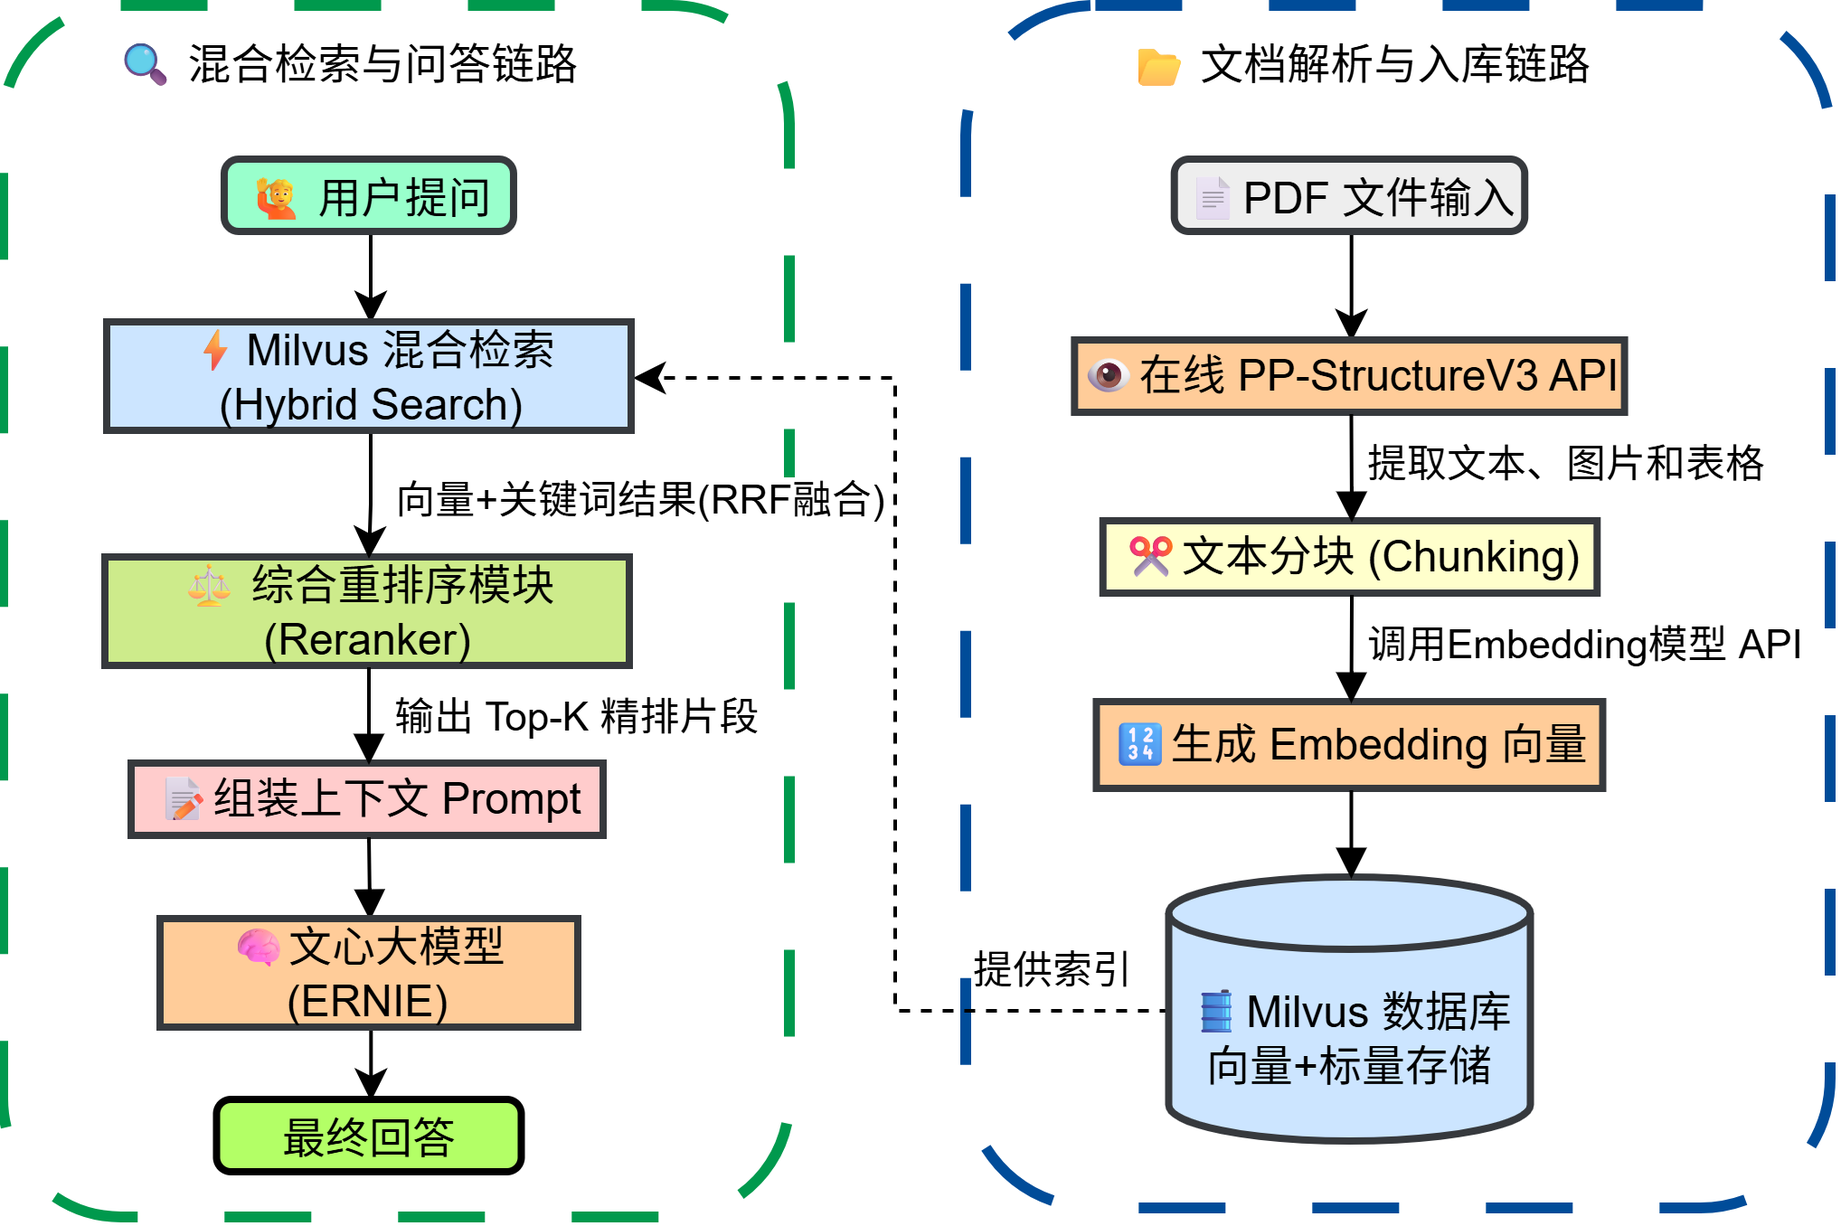
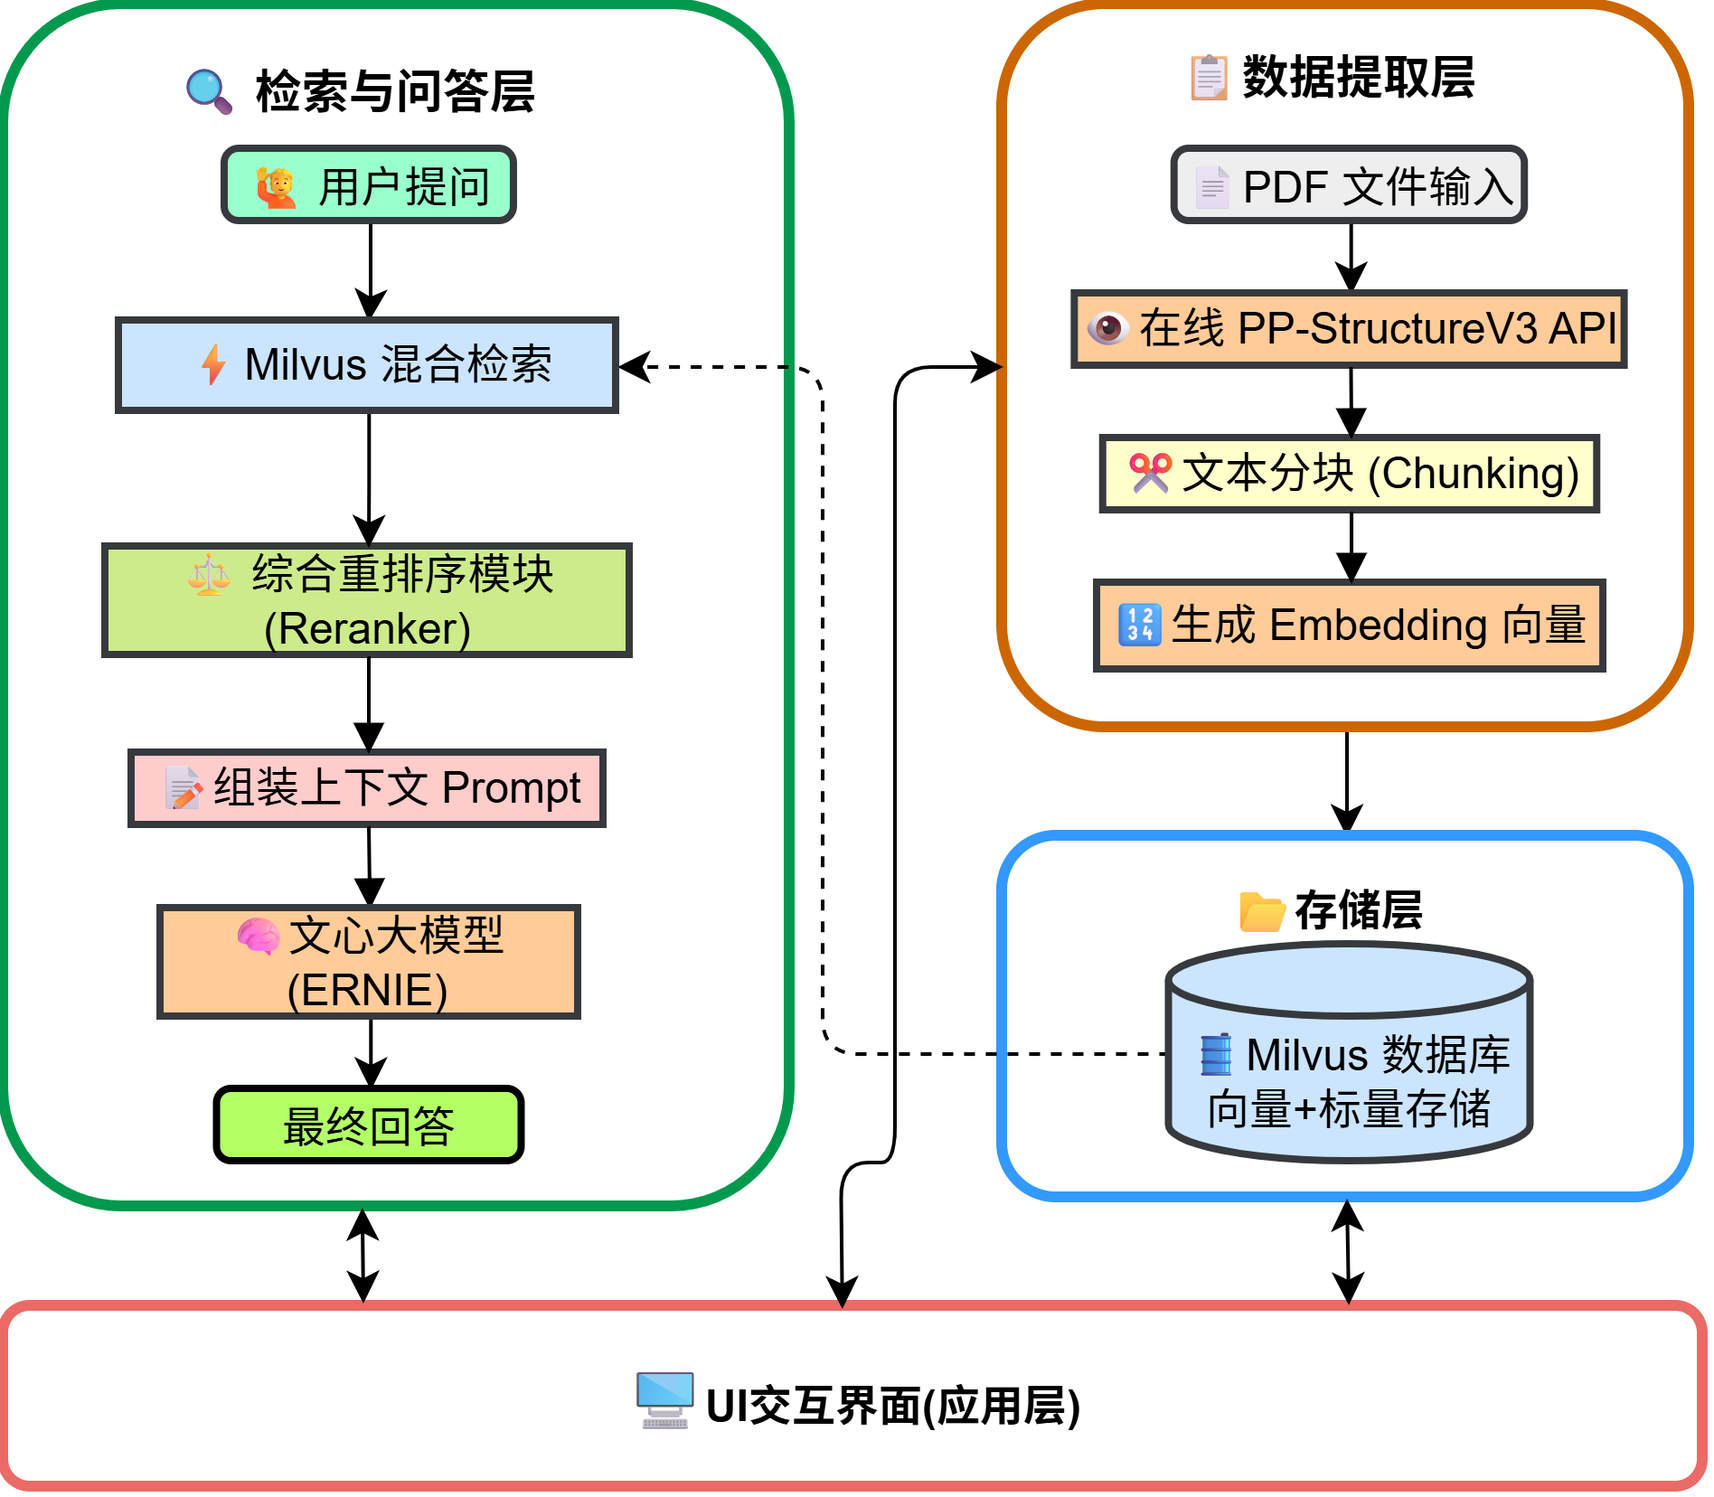
增加正确星河社区链接

diff --git a/src/posts/high-precision-rag-system.md b/src/posts/high-precision-rag-system.md
@@ -11,36 +11,126 @@ tags:
 
 # 构建基于百度文心 ERNIE 与 Milvus 的高精度多文档分析与问答系统
 
-## 项目介绍
+## 引言
 
 在大型语言模型（LLM）的应用落地中，RAG（检索增强生成）是解决模型幻觉和知识时效性的关键技术。然而，面对复杂的 PDF 文档和专业领域的查询，简单的“分块+向量检索”往往难以满足精度要求。
 
-本文将介绍一个基于 Python 开发的多文档智能分析与问答系统。该系统集成了 **在线 OCR 解析**、**Milvus 混合检索（向量+关键词）** 以及 **多维度的重排序（Reranker）** 策略，旨在提升低资源环境下的检索准确率。
-
-## 🔗 项目资源
-
-- 🐙 GitHub 代码仓库：[点击访问](https://github.com/LiaoYFBH/Paddle-ERNIE-RAG)
-
-- 🚀 星河社区在线应用：[立即体验]()
-
-- 📓 星河社区 Notebook：[在线运行]()
+本博客将介绍对基于 Python 开发的多文档高精度智能分析与问答系统的关键技术进行说明介绍。该系统集成了 **在线 OCR 解析**、**Milvus 混合检索（向量+关键词）** 以及 **多维度的重排序（Reranker）** 策略，旨在提升低资源环境下的检索准确率。
 
 ## 1. 系统架构概览
 
 本项目的系统主要由四个核心模块组成：
 
-1. **数据摄入层**：使用在线 OCR API 进行高精度的文档布局分析（Layout Parsing）。
+1. **数据提取层**：使用在线 OCR API 进行高精度的文档布局分析（Layout Parsing）。
 2. **存储层**：利用 Milvus 向量数据库存储 Dense Embedding，同时维护倒排索引以支持关键词检索。
-3. **检索层**：实现向量检索与关键词检索的加权融合（RRF）。
-4. **应用层**：基于 Gradio 构建交互界面，集成ERNIE大模型API接口生成回答。
+3. **检索与问答层**：实现向量检索与关键词检索的加权融合（RRF），集成 ERNIE 大模型 API 接口生成回答。
+4. **应用层**：基于 Gradio 构建交互界面。
+<div style="display: flex; justify-content: center;">
+  <img src="../images/high-precision-rag-system/flow.png" alt="Fig 2" style="width: 80%;">
+</div>
 
-![Fig 1](../images/high-precision-rag-system/flow.png)
+### 🔗 项目资源
+
+- 🐙 GitHub 代码仓库：[点击访问](https://github.com/LiaoYFBH/Paddle-ERNIE-RAG)
+
+- 🚀 星河社区在线应用：[立即体验](https://aistudio.baidu.com/application/detail/107183)
+
+- 📓 星河社区 Notebook：[在线运行](https://aistudio.baidu.com/project/edit/9812333)
 
 ## 2. 关键技术实现
 
-### 2.1 Milvus 向量库与混合检索策略
+### 2.1 PP-StructureV3 文档解析
 
-#### 知识库命名的工程化处理
+针对科研论文中常见的双栏排版、公式混排及图表嵌入问题，传统的 PyPDF2 等纯文本提取工具往往力不从心（容易导致段落乱序、表格崩坏）。
+
+为此，本项目在 backend.py 中封装了 OnlinePDFParser 类，直接集成 PP-StructureV3 在线 API 进行高精度的文档布局分析（Layout Parsing）。
+
+该方案具备三大核心优势：
+
+    结构化输出：直接返回 Markdown 格式（自动识别标题层级、段落边界）。
+
+    图表提取：在解析文本的同时，自动提取文档中的图片并转存，为后续的“多模态问答”提供素材。
+
+    上下文保留：基于滑动窗口进行切分，防止关键信息在切片边界丢失。
+
+#### 2.1.1 核心解析逻辑
+
+在 backend.py 中，我们构建了 API 请求，将 PDF 文件流发送至服务端，并解析返回的 layoutParsingResults，提取出清洗后的 Markdown 文本和图片资源。
+
+```python
+# backend.py (OnlinePDFParser 类核心逻辑摘要)
+def predict(self, file_path):
+    # 1. 文件转 Base64
+    with open(file_path, "rb") as file:
+        file_data = base64.b64encode(file.read()).decode("ascii")
+
+    # 2. 构造请求 Payload
+    payload = {
+        "file": file_data,
+        "fileType": 1, # PDF 类型
+        "useChartRecognition": False, # 根据需求配置
+        "useDocOrientationClassify": False
+    }
+
+    # 3. 发送请求获取 Layout Parsing 结果
+    response = requests.post(self.api_url, json=payload, headers=headers)
+    res_json = response.json()
+
+    # 4. 提取 Markdown 文本与图片
+    parsing_results = res_json.get("result", {}).get("layoutParsingResults", [])
+    mock_outputs = []
+    for item in parsing_results:
+        md_text = item.get("markdown", {}).get("text", "")
+        images = item.get("markdown", {}).get("images", {})
+        # ... (后续图片下载与文本清洗逻辑)
+        mock_outputs.append(MockResult(md_text, images))
+
+    return mock_outputs, "Success"
+```
+
+#### 2.1.2
+
+滑动窗口文本分块
+
+拿到结构化的 Markdown 文本后，为了避免语义被生硬切断（例如一句话跨了两个 chunk），我们实现了一个带有 overlap（重叠区）的滑动窗口分块策略。
+
+```python
+# backend.py
+def split_text_into_chunks(text: str, chunk_size: int = 300, overlap: int = 120) -> list:
+    """基于滑动窗口的文本分块，保留 overlap 长度的重叠上下文"""
+    if not text: return []
+    lines = [line.strip() for line in text.split("\n") if line.strip()]
+    chunks = []
+    current_chunk = []
+    current_length = 0
+
+    for line in lines:
+        while len(line) > chunk_size:
+            # 处理超长单行
+            part = line[:chunk_size]
+            line = line[chunk_size:]
+            current_chunk.append(part)
+            # ... (切分逻辑) ...
+
+        current_chunk.append(line)
+        current_length += len(line)
+
+        # 当累积长度超过阈值，生成一个 chunk
+        if current_length > chunk_size:
+            chunks.append("\n".join(current_chunk))
+            # 回退：保留最后 overlap 长度的文本作为下一个 chunk 的开头
+            overlap_text = current_chunk[-1][-overlap:] if current_chunk else ""
+            current_chunk = [overlap_text] if overlap_text else []
+            current_length = len(overlap_text)
+
+    if current_chunk:
+        chunks.append("\n".join(current_chunk).strip())
+    return chunks
+```
+
+### 2.2 Milvus 向量库与混合检索策略
+
+#### 2.2.1 知识库命名的工程化处理
 
 在实际部署中，Milvus 等向量数据库对集合名称（Collection Name）通常有严格的命名限制。为了解决这一问题，我们在后端代码中实现了一套透明的编解码机制。
 
@@ -73,12 +163,54 @@ def decode_name(real_name):
     return real_name
 ```
 
-#### 混合检索策略
+#### 2.2.2 向量化入库与元数据绑定
 
-检索前，系统首先利用LLM 生成的问题的双语翻译，避免中文问题询问英文文档，使得关键词不匹配，以最大化语义覆盖。随后并行执行两路检索：
+在 OCR 解析并将长文本切分为 Chunks 后，系统并非简单地将文本存入数据库，而是执行了**“向量化 + 元数据绑定”**的关键步骤。
+
+为了支持后续的精确溯源（Citation）和多模态问答，我们在设计 Milvus Schema 时，除了存储 384 维的 Dense Vector 外，还强制绑定了 filename（文件名）、page（页码）和 chunk_id（切片ID）等标量字段。
+
+这一过程在 vector_store.py 中通过 insert_documents 方法实现，采用批量 Embedding 策略以减少网络开销：
+
+```python
+# vector_store.py
+def insert_documents(self, documents):
+    """批量向量化并写入 Milvus"""
+    if not documents: return
+
+    # 1. 提取纯文本列表，批量请求 Embedding 模型
+    texts = [doc['content'] for doc in documents]
+    embeddings = self.get_embeddings(texts)
+
+    # 2. 数据清洗：过滤掉 Embedding 失败的坏数据
+    valid_docs, valid_vectors = [], []
+    for i, emb in enumerate(embeddings):
+        if emb and len(emb) == 384: # 确保向量维度正确
+            valid_docs.append(documents[i])
+            valid_vectors.append(emb)
+
+    # 3. 组装列式数据 (Columnar Format)
+    # Milvus insert 接口要求各字段数据以列表形式传入
+    data = [
+        [doc['filename'] for doc in valid_docs],  # Scalar: 文件名
+        [doc['page'] for doc in valid_docs],      # Scalar: 页码 (用于溯源)
+        [doc['chunk_id'] for doc in valid_docs],  # Scalar: 切片ID
+        [doc['content'] for doc in valid_docs],   # Scalar: 原始内容 (用于关键词检索)
+        valid_vectors                             # Vector: 语义向量
+    ]
+
+    # 4. 执行插入与持久化
+    self.collection.insert(data)
+    self.collection.flush()
+```
+
+#### 2.1.2 混合检索策略
+
+检索前，系统首先利用 LLM 生成的问题的双语翻译，避免中文问题询问英文文档，使得关键词不匹配，以最大化语义覆盖。随后并行执行两路检索：
 
 1. **Dense (向量检索)**：捕捉语义相似度（例如“简谐振子”与“弹簧振子”的语义关联）。
 2. **Sparse (关键词检索)**：弥补向量模型对专有名词或精确数字匹配的不足（例如精确匹配公式中的变量名）。
+
+向量检索容易因语义泛化而召回错误概念（如“弹簧振子”与“简谐振子”），而高权重的关键词检索能确保专有名词的精确命中，从而大幅提升准确率。
 
 然后执行：
 
@@ -121,21 +253,31 @@ def search(self, query: str, top_k: int = 10, \*\*kwargs):
 
 ```
 
-### 2.2 鲁棒的重排序算法 (Robust Reranking)
+### 2.3 鲁棒的重排序算法 (Robust Reranking)
 
 检索回来的片段（Chunks）需要进一步精排。在 `reranker_v2.py` 中，设计了一套综合打分算法。
 评分维度包括：
 
 1. **模糊匹配（Fuzzy Score）**：使用 `fuzzywuzzy` 计算 Query 与 Content 的字面重合度。
-2. **关键词覆盖率（Keyword Coverage）**：计算 Query 中的核心词在文档片段中的出现比例。
-3. **语义相似度**：来自 Milvus 的原始向量距离。
-4. **长度惩罚与位置偏置**：对过短的片段进行惩罚，对排名靠前的片段给予位置奖励。
 
-这种基于规则与语义结合的重排序策略，在无训练数据的情况下，比纯黑盒模型更具可解释性和鲁棒性。
+2. **关键词覆盖率（Keyword Coverage）**：计算 Query 中的核心词在文档片段中的出现比例。
+
+3. **语义相似度**：来自 Milvus 的原始向量距离。
+
+4. **长度惩罚与位置偏置**：对过短的片段进行惩罚，对Milvus 召回的排名靠前的片段给予位置奖励。
+
+5. **专有名词**：
+   - **英文（看“大小写”特征）：** 使用正则 `\b[A-Z][a-z]+\b|[A-Z]{2,}`，专门匹配**首字母大写**的单词（如 "Milvus"）或**全大写**的缩写（如 "RAG"），因为在英文中这些通常代表专有名词。
+
+   - **中文（看“连续性”特征）：** 由于中文没有大小写，策略变成了**“切分+长度”**：使用非中文字符作为分隔符切断句子，保留所有**连续出现 2 个及以上**的汉字片段（如“简谐振子”），将其视为潜在实体。
+
+具体的分数占比见下图：
 
 <div style="display: flex; justify-content: center;">
-  <img src="../images/high-precision-rag-system/占比.png" alt="Fig 2" style="width: 50%;">
+   <img src="../images/high-precision-rag-system/占比.png" alt="Fig 2" style="width: 100%;">
 </div>
+
+这种基于规则与语义结合的重排序策略，在无训练数据的情况下，比纯黑盒模型更具可解释性和鲁棒性。
 
 ```python
 # reranker_v2.py
@@ -170,56 +312,17 @@ content = chunk.get('content', '')
         milvus_similarity * 0.35 +
         length_score * 0.15
     )
+	# 位置权重
+    position_bonus = 0
+    if 'milvus_rank' in chunk:
+        rank = chunk['milvus_rank']
+        position_bonus = max(0, 20 - rank)
 
     # 专有名词额外加分 (Bonus)
     proper_noun_bonus = 30 if self._check_proper_nouns(query, content) else 0
 
     return base_score + proper_noun_bonus
 
-```
-
-### 2.3 PP-StructureV3文档解析
-
-为了处理包含复杂排版和图表的文档，本项目在 `backend.py` 中集成了在线PP-StructureV3的API进行文档解析。
-
-与传统 PyPDF2 等库不同，PP-StructureV3不仅能提取文本，还能：
-
-- 识别 Markdown 结构（标题、段落）。
-- 提取文档中的图片并保存，便于后续多模态扩展。
-- 通过 `split_text_into_chunks` 实现基于滑动窗口的文本分块，保留上下文重叠（Overlap）。
-
-```python
-# backend.py
-def split_text_into_chunks(text: str, chunk_size: int = 300, overlap: int = 120) -> list:
-    """基于滑动窗口的文本分块，保留 overlap 长度的重叠上下文"""
-    if not text: return []
-    lines = [line.strip() for line in text.split("\n") if line.strip()]
-    chunks = []
-    current_chunk = []
-    current_length = 0
-
-    for line in lines:
-        while len(line) > chunk_size:
-            # 处理超长单行
-            part = line[:chunk_size]
-            line = line[chunk_size:]
-            current_chunk.append(part)
-            # ... (切分逻辑) ...
-
-        current_chunk.append(line)
-        current_length += len(line)
-
-        # 当累积长度超过阈值，生成一个 chunk
-        if current_length > chunk_size:
-            chunks.append("\n".join(current_chunk))
-            # 回退：保留最后 overlap 长度的文本作为下一个 chunk 的开头
-            overlap_text = current_chunk[-1][-overlap:] if current_chunk else ""
-            current_chunk = [overlap_text] if overlap_text else []
-            current_length = len(overlap_text)
-
-    if current_chunk:
-        chunks.append("\n".join(current_chunk).strip())
-    return chunks
 ```
 
 ### 2.4 API 速率限制与自适应保护
@@ -232,16 +335,43 @@ if is_rate_limit:
     self._adaptive_slow_down() # 永久增加请求间隔
     wait_time = (2 ** attempt) + random.uniform(1.0, 3.0) # 指数退避
     time.sleep(wait_time)
+
+def _adaptive_slow_down(self):
+    """触发自适应降级：遇到限流时，永久增加全局请求间隔"""
+    self.current_delay = min(self.current_delay * 2.0, 15.0)
+    logger.warning(f"📉 触发速率限制(429)，系统自动降速: 新间隔 {self.current_delay:.2f}s")
 ```
 
 这保证了系统在大批量文档入库时的稳定性。
 
-## 2.5 多模态问答
+### 2.5 多模态问答
 
 针对科研文档中包含大量关键图表（如实验数据、模型架构）的特点，本系统实现了“图表锁定”问答功能。核心技术实现包含以下三个维度：
 
 1. **上下文增强 Prompt**
    后端在构建请求时，不仅发送图片本身，还检索该图片所在页面的 OCR 文本作为背景信息（Context）。Prompt 结构动态拼装了“图片元数据 + 背景文本 + 用户问题”，有效提升了模型对图表细节与上下文关联的理解能力。
+
+   ```python
+   # backend.py - 多模态问答核心逻辑
+
+   # 1. 检索当前页面的 OCR 文本作为背景 (Context)
+   # 系统根据文件名和页码，从 Milvus 中拉取该图所在的完整页面文本
+   # page_num 来自前端图片文件名的解析 (e.g., "p3_figure.jpg" -> Page 3)
+   page_text_context = milvus_store.get_page_content(doc_name, page_num)[:800]
+
+   # 2. 动态拼装 Context-Enhanced Prompt
+   # 关键点：将"视觉信息"与"文本背景"强制对齐，防止模型看图说话产生幻觉
+   final_prompt = f"""
+   【任务】结合图片和背景信息回答问题。
+   【图片元数据】来源：{doc_name} (P{page_num})
+   【背景文本】{page_text_context} ... (此处省略长文本)
+   【用户问题】{user_question}
+   """
+
+   # 3. 发送多模态请求 (Vision API)
+   # 底层会将图片转为 Base64，与 final_prompt 一起发给 ERNIE-VL 模型
+   answer = ernie_client.chat_with_image(query=final_prompt, image_path=img_path)
+   ```
 
 2. **Vision 接口封装**
    底层客户端（`ernie_client.py`）实现了 OpenAI 兼容的视觉协议。系统自动读取本地图片并转换为 Base64 编码，通过 `image_url` 格式构建多模态消息体，实现了图像数据与文本指令的联合推理。
@@ -287,7 +417,7 @@ if is_rate_limit:
 
 ## 3. 界面交互与效果
 
-前端基于 Gradio 搭建（`main.py`），采用自定义 CSS (`modern_css`) 搭建了美观的UI界面。
+前端基于 Gradio 搭建（`main.py`），采用自定义 CSS (`modern_css`) 搭建了美观的 UI 界面。
 
 ```python
 /* main.py - modern_css 片段 */
@@ -309,7 +439,7 @@ if is_rate_limit:
 }
 ```
 
-为了保证公式在UI界面上能正常渲染出来，首先定义一套完整的 LaTeX 识别规则，涵盖行内与行间公式：
+为了保证公式在 UI 界面上能正常渲染出来，首先定义一套完整的 LaTeX 识别规则，涵盖行内与行间公式：
 
 ```python
 # main.py 配置 LaTeX 规则
@@ -340,12 +470,12 @@ doc_summary = gr.Markdown(
 
 功能亮点：
 
-- **高精度问答**：集成 百度文心一言（ERNIE Bot） 大模型API，利用ERNIE大模型卓越的语义理解与生成能力，配合“向量+关键词”双路混合检索与 RRF 重排序算法，确保回答的精准度与鲁棒性。
+- **高精度问答**：集成 百度文心一言（ERNIE Bot） 大模型 API，利用 ERNIE 大模型卓越的语义理解与生成能力，配合“向量+关键词”双路混合检索与 RRF 重排序算法，确保回答的精准度与鲁棒性。
 - **多知识库管理**：支持动态创建、切换和删除知识库。
 - **召回率自测**：内置 `test_self_recall` 函数，自动从库中抽取样本验证检索准确率。
 - **实时反馈**：上传大文件时，通过进度条实时显示 OCR 解析与 Embedding 入库进度。
 
-实现的UI界面效果如下：
+实现的 UI 界面效果如下：
 ![图4：摘要和图表](../images//high-precision-rag-system/系统UI-1-1.png)
 ![图5：选择图表问答](../images//high-precision-rag-system/系统UI-1-2.png)
 ![图6：全部文档检索](../images//high-precision-rag-system/系统UI-1-3.png)
@@ -365,6 +495,6 @@ doc_summary = gr.Markdown(
 
 感谢杨有志老师在星河社区部署上线过程中的大力支持。
 
-感谢李成龙老师在Milvus向量检索方面提出的建议。
+感谢李成龙老师在 Milvus 向量检索方面提出的建议。
 
-很荣幸参与启航计划（第6期），未来我将持续深耕，为开源社区贡献更多力量。
+很荣幸参与启航计划（第 6 期），未来我将持续深耕，为开源社区贡献更多力量。
